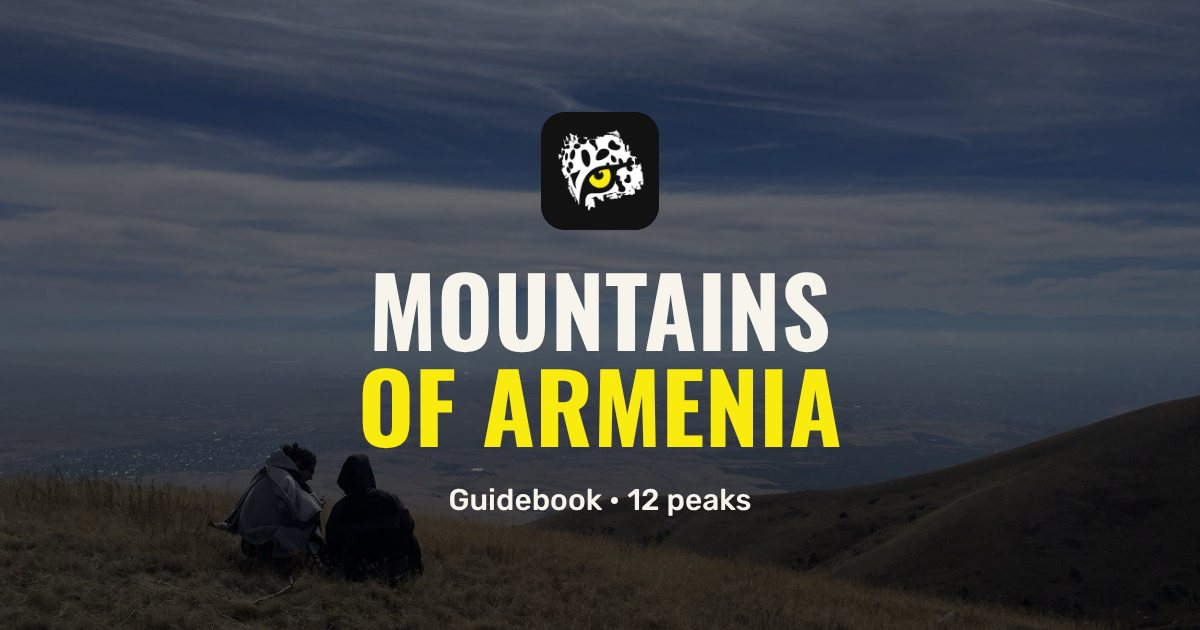
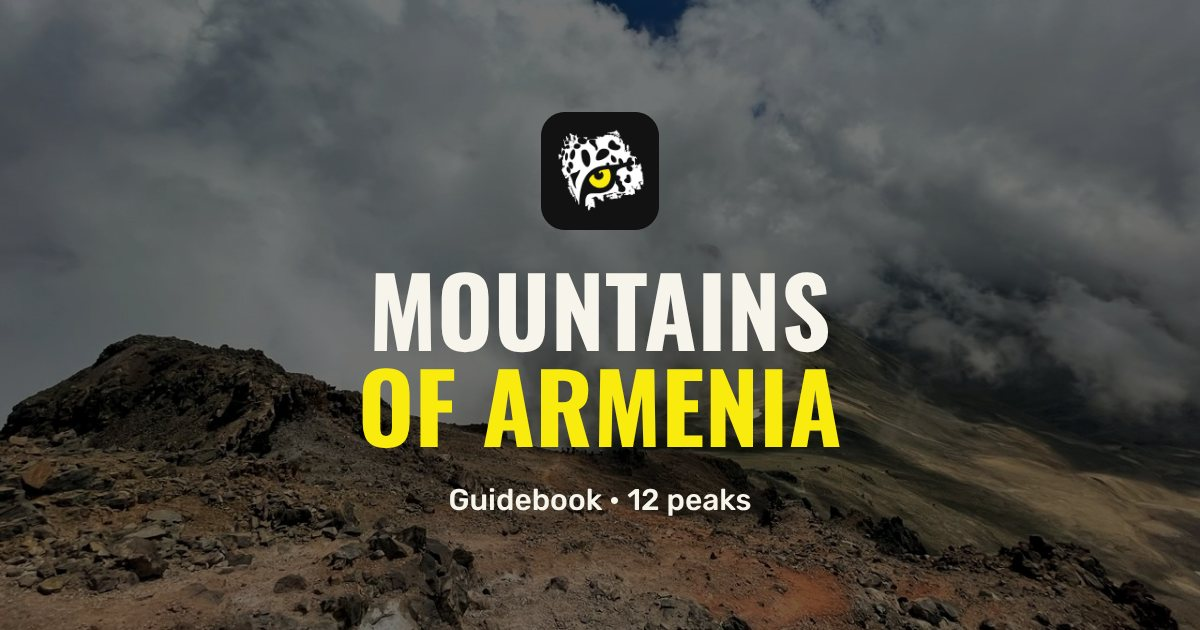
About: remove 7 Summits and sole-trader line, new facts strip (1 000+); mountains guidebook hero = Aragats
Claude-Session: https://claude.ai/code/session_01UELaXKaEtKLHJMR8bpMREh

diff --git a/o-nas/index.html b/o-nas/index.html
@@ -18,7 +18,7 @@
 <link rel="apple-touch-icon" href="../dolmatur/img/apple-touch-icon.png">
 <meta name="apple-mobile-web-app-title" content="White Irbis">
 <meta name="theme-color" content="#121212">
-<meta name="description" content="White Irbis — горная команда из Еревана: гиды-альпинисты Антуан Ананян и Алексей Цисельский, в горах Армении с 2003 года. Партнёры: Федерация альпинизма и горного туризма Армении (член UIAA), клуб «7 Вершин».">
+<meta name="description" content="White Irbis — горная команда из Еревана: гиды-альпинисты Антуан Ананян и Алексей Цисельский, в горах Армении с 2003 года. Антуан Ананян — вице-президент Федерации альпинизма и горного туризма Армении (член UIAA).">
 <link rel="preconnect" href="https://fonts.googleapis.com">
 <link rel="preconnect" href="https://fonts.gstatic.com" crossorigin>
 <link rel="stylesheet" href="https://fonts.googleapis.com/css2?family=Oswald:wght@300;400;500;600;700&family=Rubik:wght@400;500;600&family=Noto+Sans+Armenian:wdth,wght@62.5..100,400..700&display=swap">
@@ -248,10 +248,10 @@ html[lang="hy"] .lk a{font-family:"Noto Sans Armenian",var(--display);font-stret
 </section>
 
 <section class="facts"><div class="wrap"><dl>
-  <div><dt><span lang="ru">В горах Армении</span><span lang="en">In Armenia's mountains</span><span lang="hy">Հայաստանի լեռներում</span></dt><dd><span lang="ru">С 2003 года</span><span lang="en">Since 2003</span><span lang="hy">2003 թվականից</span></dd></div>
-  <div><dt><span lang="ru">Клиентов</span><span lang="en">Clients</span><span lang="hy">Հաճախորդներ</span></dt><dd>500+</dd></div>
-  <div><dt><span lang="ru">Туров</span><span lang="en">Tours</span><span lang="hy">Տուրեր</span></dt><dd>7</dd></div>
-  <div><dt><span lang="ru">Гайдбуков</span><span lang="en">Guidebooks</span><span lang="hy">Ուղեցույցներ</span></dt><dd>3</dd></div>
+  <div><dt><span lang="ru">Первая группа</span><span lang="en">First group</span><span lang="hy">Առաջին խումբը</span></dt><dd>2003</dd></div>
+  <div><dt><span lang="ru">Уже сходили с нами</span><span lang="en">Already been with us</span><span lang="hy">Արդեն եղել են մեզ հետ</span></dt><dd><span lang="ru">1 000+ человек</span><span lang="en">1,000+ people</span><span lang="hy">1 000+ մարդ</span></dd></div>
+  <div><dt><span lang="ru">Самый высокий тур</span><span lang="en">Highest tour</span><span lang="hy">Ամենաբարձր տուրը</span></dt><dd><span lang="ru">Арарат, 5 137 м</span><span lang="en">Ararat, 5,137 m</span><span lang="hy">Արարատ, 5 137 մ</span></dd></div>
+  <div><dt><span lang="ru">Наши гиды ходили</span><span lang="en">Our guides have climbed</span><span lang="hy">Մեր գիդերը եղել են</span></dt><dd><span lang="ru">От Альп до Гималаев</span><span lang="en">Alps to Himalayas</span><span lang="hy">Ալպերից Հիմալայներ</span></dd></div>
 </dl></div></section>
 
 <section id="story"><div class="wrap st">
@@ -277,16 +277,12 @@ html[lang="hy"] .lk a{font-family:"Noto Sans Armenian",var(--display);font-stret
 
 <section id="partners"><div class="wrap">
   <span class="eyebrow"><span lang="ru">Партнёры</span><span lang="en">Partners</span><span lang="hy">Գործընկերներ</span></span>
-  <h2 class="h2"><span lang="ru">С кем мы работаем</span><span lang="en">Who we work with</span><span lang="hy">Ում հետ ենք աշխատում</span></h2>
+  <h2 class="h2"><span lang="ru">Мы в федерации</span><span lang="en">Part of the federation</span><span lang="hy">Մենք ֆեդերացիայում ենք</span></h2>
   <div class="pt">
     <div class="ptc">
       <h3><span lang="ru">Федерация альпинизма и горного туризма Армении</span><span lang="en">Armenian Mountaineering and Hiking Federation</span><span lang="hy">Հայաստանի լեռնագնացության և լեռնային զբոսաշրջության ֆեդերացիա</span></h3>
       <p><span lang="ru">Национальная федерация, которая с 2011 года отвечает за альпинизм, горный туризм и скалолазание в стране: проводит сборы, обучение и семинары. В октябре 2025 года стала полноправным членом UIAA — Международной федерации альпинизма и скалолазания.</span><span lang="en">The national federation responsible since 2011 for mountaineering, hiking and climbing in the country: it runs training camps, courses and seminars. In October 2025 it became a full member of the UIAA, the International Climbing and Mountaineering Federation.</span><span lang="hy">Ազգային ֆեդերացիա, որը 2011 թվականից պատասխանատու է երկրում լեռնագնացության, լեռնային զբոսաշրջության և մագլցման համար՝ անցկացնում է հավաքներ, ուսուցումներ և սեմինարներ։ 2025 թ. հոկտեմբերին դարձավ UIAA-ի՝ Լեռնագնացության և մագլցման միջազգային ֆեդերացիայի լիիրավ անդամ։</span></p>
       <p class="ptn"><span lang="ru">Антуан Ананян — вице-президент федерации.</span><span lang="en">Antoine Ananyan is the federation's vice-president.</span><span lang="hy">Անտուան Անանյանը ֆեդերացիայի փոխնախագահն է։</span></p>
-    </div>
-    <div class="ptc">
-      <h3><span lang="ru">Клуб «7 Вершин»</span><span lang="en">7 Summits Club</span><span lang="hy">«7 գագաթ» ակումբ</span></h3>
-      <p><span lang="ru">Один из самых известных в России клубов высотного альпинизма и горных путешествий. Наш партнёр.</span><span lang="en">One of Russia's best-known clubs for high-altitude mountaineering and mountain travel. Our partner.</span><span lang="hy">Ռուսաստանում բարձրլեռնային ալպինիզմի և լեռնային ճանապարհորդությունների ամենահայտնի ակումբներից մեկը։ Մեր գործընկերը։</span></p>
     </div>
   </div>
 </div></section>
@@ -302,7 +298,6 @@ html[lang="hy"] .lk a{font-family:"Noto Sans Armenian",var(--display);font-stret
     <div><h3><span lang="ru">План под погоду</span><span lang="en">Plans that follow the weather</span><span lang="hy">Պլան՝ ըստ եղանակի</span></h3><p><span lang="ru">В горах решает погода. Если надо — меняем дни местами или вершину, чтобы вы получили лучший день, а не галочку.</span><span lang="en">In the mountains the weather decides. When needed we swap days or the peak so you get the best day, not just a tick.</span><span lang="hy">Լեռներում եղանակն է որոշում։ Անհրաժեշտության դեպքում փոխում ենք օրերի հերթականությունը կամ գագաթը, որ ստանաք լավագույն օրը, ոչ թե պարզապես նշում։</span></p></div>
     <div><h3><span lang="ru">По-русски, по-английски, по-армянски</span><span lang="en">Russian, English, Armenian</span><span lang="hy">Ռուսերեն, անգլերեն, հայերեն</span></h3><p><span lang="ru">Говорим на вашем языке, цены показываем в вашей валюте: рубли, драмы или евро.</span><span lang="en">We speak your language and show prices in your currency: roubles, drams or euros.</span><span lang="hy">Խոսում ենք ձեր լեզվով, գները ցույց ենք տալիս ձեր արժույթով՝ ռուբլի, դրամ կամ եվրո։</span></p></div>
   </div>
-  <p class="credit" style="color:var(--on-deep-muted);margin-top:28px"><span lang="ru">Работаем официально: индивидуальный предприниматель Антуан Ананян, Армения.</span><span lang="en">We operate officially as the registered business of Antoine Ananyan, Armenia.</span><span lang="hy">Աշխատում ենք պաշտոնապես՝ անհատ ձեռնարկատեր Անտուան Անանյան, Հայաստան։</span></p>
 </div></section>
 
 <section id="what"><div class="wrap wh">

diff --git a/tools/newtours/o-nas_body.html b/tools/newtours/o-nas_body.html
@@ -14,10 +14,10 @@
 </section>
 
 <section class="facts"><div class="wrap"><dl>
-  <div><dt><span lang="ru">В горах Армении</span><span lang="en">In Armenia's mountains</span><span lang="hy">Հայաստանի լեռներում</span></dt><dd><span lang="ru">С 2003 года</span><span lang="en">Since 2003</span><span lang="hy">2003 թվականից</span></dd></div>
-  <div><dt><span lang="ru">Клиентов</span><span lang="en">Clients</span><span lang="hy">Հաճախորդներ</span></dt><dd>500+</dd></div>
-  <div><dt><span lang="ru">Туров</span><span lang="en">Tours</span><span lang="hy">Տուրեր</span></dt><dd>7</dd></div>
-  <div><dt><span lang="ru">Гайдбуков</span><span lang="en">Guidebooks</span><span lang="hy">Ուղեցույցներ</span></dt><dd>3</dd></div>
+  <div><dt><span lang="ru">Первая группа</span><span lang="en">First group</span><span lang="hy">Առաջին խումբը</span></dt><dd>2003</dd></div>
+  <div><dt><span lang="ru">Уже сходили с нами</span><span lang="en">Already been with us</span><span lang="hy">Արդեն եղել են մեզ հետ</span></dt><dd><span lang="ru">1 000+ человек</span><span lang="en">1,000+ people</span><span lang="hy">1 000+ մարդ</span></dd></div>
+  <div><dt><span lang="ru">Самый высокий тур</span><span lang="en">Highest tour</span><span lang="hy">Ամենաբարձր տուրը</span></dt><dd><span lang="ru">Арарат, 5 137 м</span><span lang="en">Ararat, 5,137 m</span><span lang="hy">Արարատ, 5 137 մ</span></dd></div>
+  <div><dt><span lang="ru">Наши гиды ходили</span><span lang="en">Our guides have climbed</span><span lang="hy">Մեր գիդերը եղել են</span></dt><dd><span lang="ru">От Альп до Гималаев</span><span lang="en">Alps to Himalayas</span><span lang="hy">Ալպերից Հիմալայներ</span></dd></div>
 </dl></div></section>
 
 <section id="story"><div class="wrap st">
@@ -43,16 +43,12 @@
 
 <section id="partners"><div class="wrap">
   <span class="eyebrow"><span lang="ru">Партнёры</span><span lang="en">Partners</span><span lang="hy">Գործընկերներ</span></span>
-  <h2 class="h2"><span lang="ru">С кем мы работаем</span><span lang="en">Who we work with</span><span lang="hy">Ում հետ ենք աշխատում</span></h2>
+  <h2 class="h2"><span lang="ru">Мы в федерации</span><span lang="en">Part of the federation</span><span lang="hy">Մենք ֆեդերացիայում ենք</span></h2>
   <div class="pt">
     <div class="ptc">
       <h3><span lang="ru">Федерация альпинизма и горного туризма Армении</span><span lang="en">Armenian Mountaineering and Hiking Federation</span><span lang="hy">Հայաստանի լեռնագնացության և լեռնային զբոսաշրջության ֆեդերացիա</span></h3>
       <p><span lang="ru">Национальная федерация, которая с 2011 года отвечает за альпинизм, горный туризм и скалолазание в стране: проводит сборы, обучение и семинары. В октябре 2025 года стала полноправным членом UIAA — Международной федерации альпинизма и скалолазания.</span><span lang="en">The national federation responsible since 2011 for mountaineering, hiking and climbing in the country: it runs training camps, courses and seminars. In October 2025 it became a full member of the UIAA, the International Climbing and Mountaineering Federation.</span><span lang="hy">Ազգային ֆեդերացիա, որը 2011 թվականից պատասխանատու է երկրում լեռնագնացության, լեռնային զբոսաշրջության և մագլցման համար՝ անցկացնում է հավաքներ, ուսուցումներ և սեմինարներ։ 2025 թ. հոկտեմբերին դարձավ UIAA-ի՝ Լեռնագնացության և մագլցման միջազգային ֆեդերացիայի լիիրավ անդամ։</span></p>
       <p class="ptn"><span lang="ru">Антуан Ананян — вице-президент федерации.</span><span lang="en">Antoine Ananyan is the federation's vice-president.</span><span lang="hy">Անտուան Անանյանը ֆեդերացիայի փոխնախագահն է։</span></p>
-    </div>
-    <div class="ptc">
-      <h3><span lang="ru">Клуб «7 Вершин»</span><span lang="en">7 Summits Club</span><span lang="hy">«7 գագաթ» ակումբ</span></h3>
-      <p><span lang="ru">Один из самых известных в России клубов высотного альпинизма и горных путешествий. Наш партнёр.</span><span lang="en">One of Russia's best-known clubs for high-altitude mountaineering and mountain travel. Our partner.</span><span lang="hy">Ռուսաստանում բարձրլեռնային ալպինիզմի և լեռնային ճանապարհորդությունների ամենահայտնի ակումբներից մեկը։ Մեր գործընկերը։</span></p>
     </div>
   </div>
 </div></section>
@@ -68,7 +64,6 @@
     <div><h3><span lang="ru">План под погоду</span><span lang="en">Plans that follow the weather</span><span lang="hy">Պլան՝ ըստ եղանակի</span></h3><p><span lang="ru">В горах решает погода. Если надо — меняем дни местами или вершину, чтобы вы получили лучший день, а не галочку.</span><span lang="en">In the mountains the weather decides. When needed we swap days or the peak so you get the best day, not just a tick.</span><span lang="hy">Լեռներում եղանակն է որոշում։ Անհրաժեշտության դեպքում փոխում ենք օրերի հերթականությունը կամ գագաթը, որ ստանաք լավագույն օրը, ոչ թե պարզապես նշում։</span></p></div>
     <div><h3><span lang="ru">По-русски, по-английски, по-армянски</span><span lang="en">Russian, English, Armenian</span><span lang="hy">Ռուսերեն, անգլերեն, հայերեն</span></h3><p><span lang="ru">Говорим на вашем языке, цены показываем в вашей валюте: рубли, драмы или евро.</span><span lang="en">We speak your language and show prices in your currency: roubles, drams or euros.</span><span lang="hy">Խոսում ենք ձեր լեզվով, գները ցույց ենք տալիս ձեր արժույթով՝ ռուբլի, դրամ կամ եվրո։</span></p></div>
   </div>
-  <p class="credit" style="color:var(--on-deep-muted);margin-top:28px"><span lang="ru">Работаем официально: индивидуальный предприниматель Антуан Ананян, Армения.</span><span lang="en">We operate officially as the registered business of Antoine Ananyan, Armenia.</span><span lang="hy">Աշխատում ենք պաշտոնապես՝ անհատ ձեռնարկատեր Անտուան Անանյան, Հայաստան։</span></p>
 </div></section>
 
 <section id="what"><div class="wrap wh">

diff --git a/gory/index.html b/gory/index.html
@@ -253,7 +253,7 @@ html[lang="hy"] .ladder .ln{font-family:"Noto Sans Armenian",var(--display);font
 </div></header>
 
 <section class="hero" id="top">
-  <div class="hero-media" aria-hidden="true"><img src="img/hero.jpg" alt="" style="object-position:35% 50%"></div>
+  <div class="hero-media" aria-hidden="true"><img src="img/hero.jpg" alt="" style="object-position:55% 60%"></div>
   <div class="wrap">
     <span class="alt"><span lang="ru">Гайдбук · 12 вершин</span><span lang="en">Guidebook · 12 peaks</span><span lang="hy">Ուղեցույց · 12 գագաթ</span></span>
     <h1><span lang="ru">Горы<br><em>Армении</em></span><span lang="en">Mountains<br><em>of Armenia</em></span><span lang="hy">Հայաստանի<br><em>լեռները</em></span></h1>

diff --git a/tools/newtours/gory_body.html b/tools/newtours/gory_body.html
@@ -4,7 +4,7 @@
 </div></header>
 
 <section class="hero" id="top">
-  <div class="hero-media" aria-hidden="true"><img src="img/hero.jpg" alt="" style="object-position:35% 50%"></div>
+  <div class="hero-media" aria-hidden="true"><img src="img/hero.jpg" alt="" style="object-position:55% 60%"></div>
   <div class="wrap">
     <span class="alt"><span lang="ru">Гайдбук · 12 вершин</span><span lang="en">Guidebook · 12 peaks</span><span lang="hy">Ուղեցույց · 12 գագաթ</span></span>
     <h1><span lang="ru">Горы<br><em>Армении</em></span><span lang="en">Mountains<br><em>of Armenia</em></span><span lang="hy">Հայաստանի<br><em>լեռները</em></span></h1>

diff --git a/tools/newtours/about_gen.py b/tools/newtours/about_gen.py
@@ -40,10 +40,10 @@ body = f'''<header class="top"><div class="wrap">
 </section>
 
 <section class="facts"><div class="wrap"><dl>
-  <div><dt>{T("В горах Армении","In Armenia's mountains","Հայաստանի լեռներում")}</dt><dd>{T("С 2003 года","Since 2003","2003 թվականից")}</dd></div>
-  <div><dt>{T("Клиентов","Clients","Հաճախորդներ")}</dt><dd>500+</dd></div>
-  <div><dt>{T("Туров","Tours","Տուրեր")}</dt><dd>7</dd></div>
-  <div><dt>{T("Гайдбуков","Guidebooks","Ուղեցույցներ")}</dt><dd>3</dd></div>
+  <div><dt>{T("Первая группа","First group","Առաջին խումբը")}</dt><dd>2003</dd></div>
+  <div><dt>{T("Уже сходили с нами","Already been with us","Արդեն եղել են մեզ հետ")}</dt><dd>{T("1 000+ человек","1,000+ people","1 000+ մարդ")}</dd></div>
+  <div><dt>{T("Самый высокий тур","Highest tour","Ամենաբարձր տուրը")}</dt><dd>{T("Арарат, 5 137 м","Ararat, 5,137 m","Արարատ, 5 137 մ")}</dd></div>
+  <div><dt>{T("Наши гиды ходили","Our guides have climbed","Մեր գիդերը եղել են")}</dt><dd>{T("От Альп до Гималаев","Alps to Himalayas","Ալպերից Հիմալայներ")}</dd></div>
 </dl></div></section>
 
 <section id="story"><div class="wrap st">
@@ -60,16 +60,12 @@ body = f'''<header class="top"><div class="wrap">
 
 <section id="partners"><div class="wrap">
   <span class="eyebrow">{T("Партнёры","Partners","Գործընկերներ")}</span>
-  <h2 class="h2">{T("С кем мы работаем","Who we work with","Ում հետ ենք աշխատում")}</h2>
+  <h2 class="h2">{T("Мы в федерации","Part of the federation","Մենք ֆեդերացիայում ենք")}</h2>
   <div class="pt">
     <div class="ptc">
       <h3>{T("Федерация альпинизма и горного туризма Армении","Armenian Mountaineering and Hiking Federation","Հայաստանի լեռնագնացության և լեռնային զբոսաշրջության ֆեդերացիա")}</h3>
       <p>{T("Национальная федерация, которая с 2011 года отвечает за альпинизм, горный туризм и скалолазание в стране: проводит сборы, обучение и семинары. В октябре 2025 года стала полноправным членом UIAA — Международной федерации альпинизма и скалолазания.","The national federation responsible since 2011 for mountaineering, hiking and climbing in the country: it runs training camps, courses and seminars. In October 2025 it became a full member of the UIAA, the International Climbing and Mountaineering Federation.","Ազգային ֆեդերացիա, որը 2011 թվականից պատասխանատու է երկրում լեռնագնացության, լեռնային զբոսաշրջության և մագլցման համար՝ անցկացնում է հավաքներ, ուսուցումներ և սեմինարներ։ 2025 թ. հոկտեմբերին դարձավ UIAA-ի՝ Լեռնագնացության և մագլցման միջազգային ֆեդերացիայի լիիրավ անդամ։")}</p>
       <p class="ptn">{T("Антуан Ананян — вице-президент федерации.","Antoine Ananyan is the federation's vice-president.","Անտուան Անանյանը ֆեդերացիայի փոխնախագահն է։")}</p>
-    </div>
-    <div class="ptc">
-      <h3>{T("Клуб «7 Вершин»","7 Summits Club","«7 գագաթ» ակումբ")}</h3>
-      <p>{T("Один из самых известных в России клубов высотного альпинизма и горных путешествий. Наш партнёр.","One of Russia's best-known clubs for high-altitude mountaineering and mountain travel. Our partner.","Ռուսաստանում բարձրլեռնային ալպինիզմի և լեռնային ճանապարհորդությունների ամենահայտնի ակումբներից մեկը։ Մեր գործընկերը։")}</p>
     </div>
   </div>
 </div></section>
@@ -80,7 +76,6 @@ body = f'''<header class="top"><div class="wrap">
   <div class="prac">
 {chr(10).join(f'    <div><h3>{T(*h)}</h3><p>{T(*p)}</p></div>' for h, p in why)}
   </div>
-  <p class="credit" style="color:var(--on-deep-muted);margin-top:28px">{T("Работаем официально: индивидуальный предприниматель Антуан Ананян, Армения.","We operate officially as the registered business of Antoine Ananyan, Armenia.","Աշխատում ենք պաշտոնապես՝ անհատ ձեռնարկատեր Անտուան Անանյան, Հայաստան։")}</p>
 </div></section>
 
 <section id="what"><div class="wrap wh">

diff --git a/tools/newtours/build.py b/tools/newtours/build.py
@@ -225,7 +225,7 @@ PAGES = {
    card='gory', css=GORY_CSS),
  'o-nas': dict(
    title='О нас — White Irbis',
-   desc='White Irbis — горная команда из Еревана: гиды-альпинисты Антуан Ананян и Алексей Цисельский, в горах Армении с 2003 года. Партнёры: Федерация альпинизма и горного туризма Армении (член UIAA), клуб «7 Вершин».',
+   desc='White Irbis — горная команда из Еревана: гиды-альпинисты Антуан Ананян и Алексей Цисельский, в горах Армении с 2003 года. Антуан Ананян — вице-президент Федерации альпинизма и горного туризма Армении (член UIAA).',
    ogdesc='Гиды-альпинисты из Еревана, в горах Армении с 2003 года. Безопасность, страховка, маленькие группы.',
    apptitle='White Irbis', fs={'ru':120,'en':120,'hy':92},
    msg={'ru':'Здравствуйте! Хочу в горы с White Irbis','en':'Hi! I would like to go to the mountains with White Irbis','hy':'Բարև Ձեզ։ Ուզում եմ լեռներ գնալ White Irbis-ի հետ'},

diff --git a/tools/newtours/gory_gen.py b/tools/newtours/gory_gen.py
@@ -111,7 +111,7 @@ body = f'''<header class="top"><div class="wrap">
 </div></header>
 
 <section class="hero" id="top">
-  <div class="hero-media" aria-hidden="true"><img src="img/hero.jpg" alt="" style="object-position:35% 50%"></div>
+  <div class="hero-media" aria-hidden="true"><img src="img/hero.jpg" alt="" style="object-position:55% 60%"></div>
   <div class="wrap">
     <span class="alt">{T("Гайдбук · 12 вершин","Guidebook · 12 peaks","Ուղեցույց · 12 գագաթ")}</span>
     <h1>{T("Горы<br><em>Армении</em>","Mountains<br><em>of Armenia</em>","Հայաստանի<br><em>լեռները</em>")}</h1>
